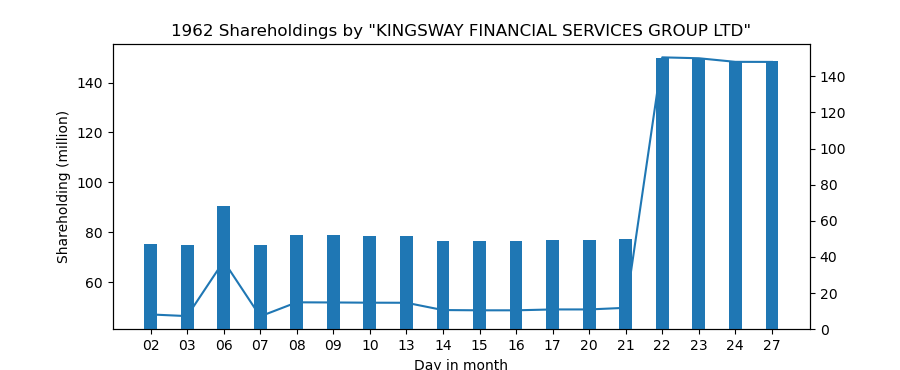
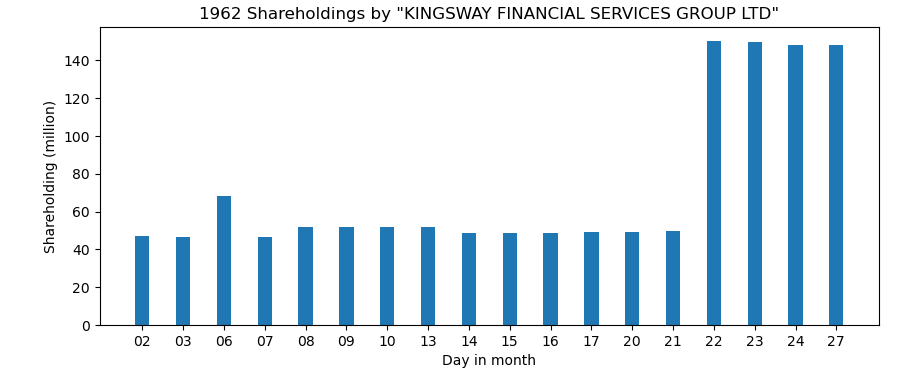
.

Changed region(s): [[0.0311, 0.0, 0.9644, 1.0], [0.2178, 0.5351, 0.28, 0.5649]]

diff --git a/trigger.py b/trigger.py
@@ -66,7 +66,8 @@ def create_graph(ticker, CCASS_ID, export_path):
     t = np.arange(0,len(df1))
     fig, ax = plt.subplots()
 
-    ax.plot(date, data)
+    #ax.plot(date, data)
+    ax.bar(date, data, 0.35)
 
     ax.set(xlabel = 'Day in month', ylabel = 'Shareholding (million)',
             title = str(ticker) + ' Shareholdings by "' + participants_dict.get(CCASS_ID) + '"')
